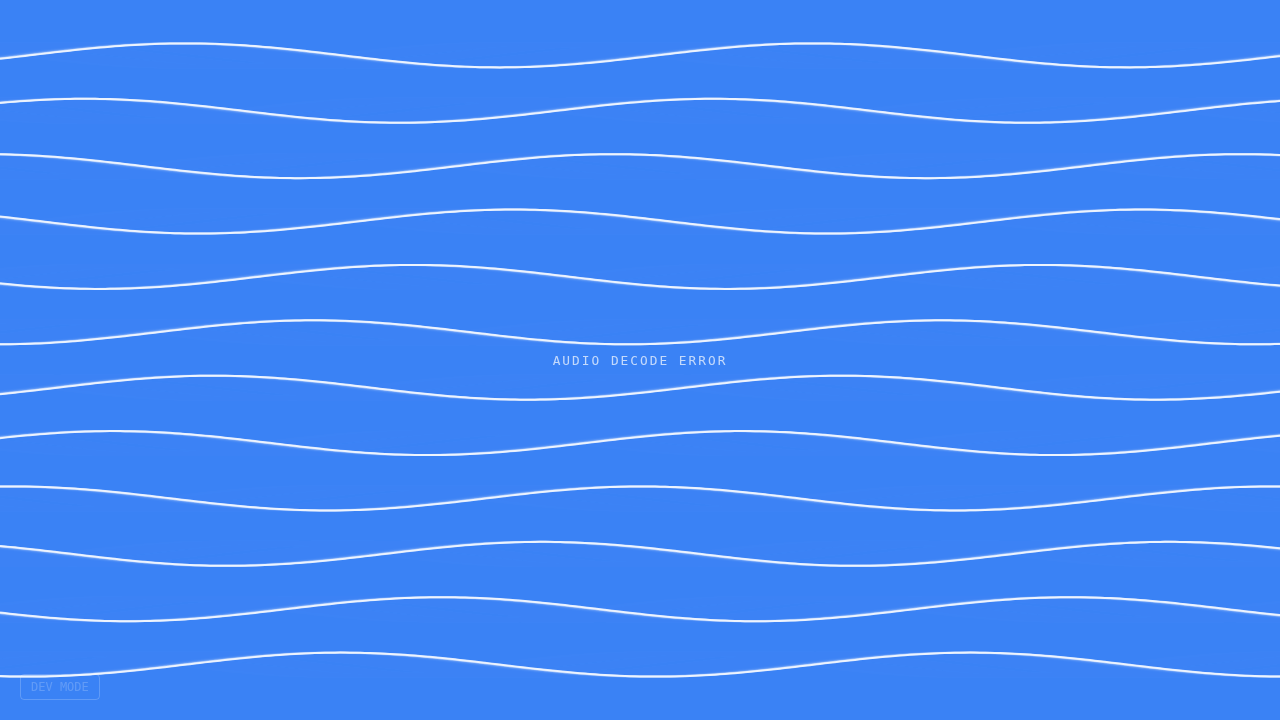
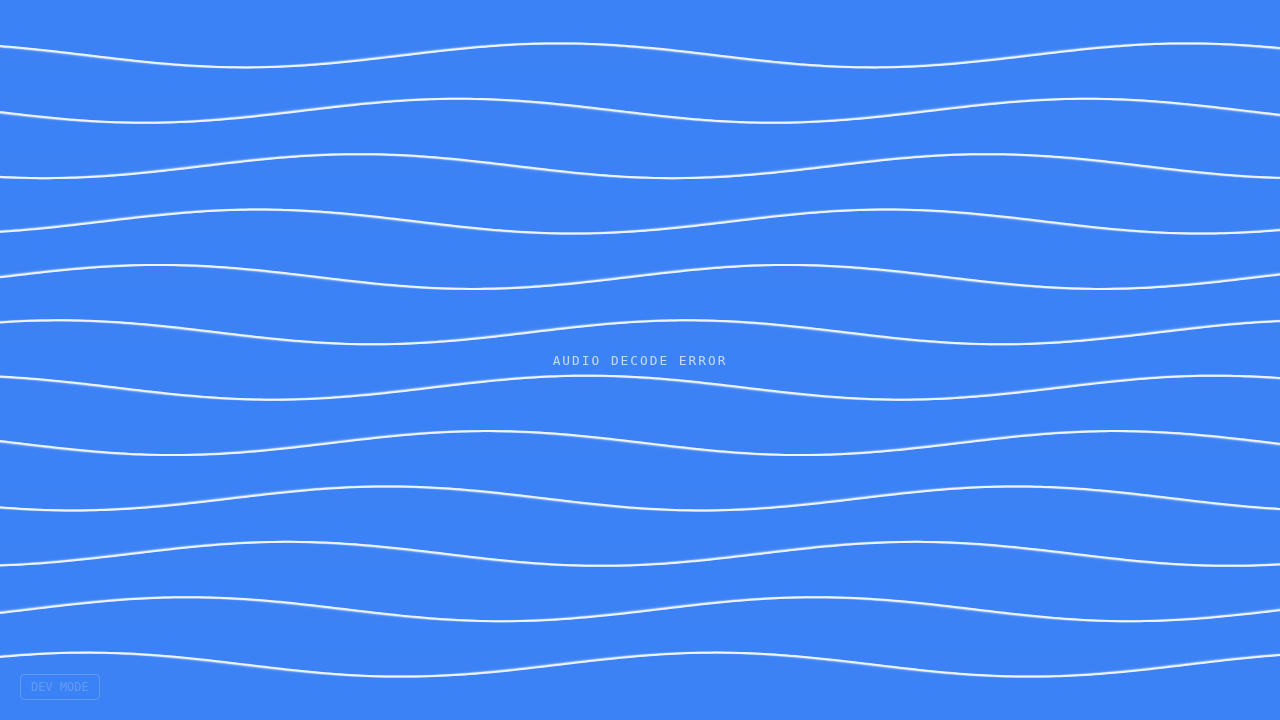
Hide dev mode button after interaction in RNBO test
- Updated `sound-artist/rnboTest.html` to hide the `#dev-bypass` button when the "TAP TO FOCUS" overlay is clicked.
- This cleans up the UI for the user once they have engaged with the audio experience.

diff --git a/test_logging.html b/test_logging.html
@@ -1,0 +1,28 @@
+<!DOCTYPE html>
+<html lang="en">
+<head>
+    <meta charset="UTF-8">
+    <title>RNBO Logging Test</title>
+</head>
+<body>
+    <div id="content"></div>
+    <script>
+        // Simulating the block loader without manually loading RNBO
+        fetch('sound-artist/rnboTest.html')
+            .then(response => response.text())
+            .then(html => {
+                const container = document.getElementById('content');
+                container.innerHTML = html;
+
+                // Execute scripts
+                const scripts = container.querySelectorAll('script');
+                scripts.forEach(oldScript => {
+                    const newScript = document.createElement('script');
+                    Array.from(oldScript.attributes).forEach(attr => newScript.setAttribute(attr.name, attr.value));
+                    newScript.appendChild(document.createTextNode(oldScript.innerHTML));
+                    oldScript.parentNode.replaceChild(newScript, oldScript);
+                });
+            });
+    </script>
+</body>
+</html>

diff --git a/sound-artist/rnboTest.html b/sound-artist/rnboTest.html
@@ -363,7 +363,11 @@
                 });
             }
             isRunning = true;
+
+            // Hide overlay and dev button
             overlay.style.opacity = '0';
+            devBtn.style.display = 'none';
+
             setTimeout(() => overlay.style.visibility = 'hidden', 1000);
             handleInteraction(e.clientX, e.clientY);
         });

diff --git a/verify_logging.py b/verify_logging.py
@@ -1,0 +1,67 @@
+from playwright.sync_api import sync_playwright
+
+def run():
+    with sync_playwright() as p:
+        browser = p.chromium.launch(headless=True)
+        page = browser.new_page()
+
+        console_logs = []
+        page.on("console", lambda msg: console_logs.append(msg.text))
+
+        # Monitor network requests to ensure we are NOT hitting api.github.com
+        def handle_request(request):
+            if "api.github.com" in request.url:
+                print(f"FAILURE: Request to GitHub API detected: {request.url}")
+
+        page.on("request", handle_request)
+
+        print("Navigating to reliability test page...")
+        page.goto("http://localhost:8000/test_logging.html")
+
+        # Wait for initialization
+        try:
+            # We expect AUDIO DECODE ERROR because of EncodingError
+            page.wait_for_selector("text=AUDIO DECODE ERROR", timeout=20000)
+            print("Saw AUDIO DECODE ERROR (expected due to codec).")
+
+            # Print captured logs
+            print("\nCaptured Console Logs:")
+            for log in console_logs:
+                print(f"  {log}")
+
+            # Verify Dev Button Visibility
+            print("\nChecking Dev Button Visibility (Before Click)...")
+            dev_btn = page.query_selector("#dev-bypass")
+            if dev_btn and dev_btn.is_visible():
+                print("SUCCESS: Dev Button is visible initially.")
+            else:
+                print("FAILURE: Dev Button is NOT visible initially.")
+
+            # Perform Interaction (Click Overlay)
+            print("Clicking Overlay (TAP TO FOCUS)...")
+            overlay = page.query_selector("#focus-overlay")
+            overlay.click()
+
+            # Verify Dev Button Hidden
+            print("Checking Dev Button Visibility (After Click)...")
+            # Wait a tiny bit for the style change to propagate if needed (though it's sync)
+            page.wait_for_timeout(100)
+
+            # In Playwright, is_visible() checks style/opacity/size.
+            # We set display: none, so it should return False.
+            if not dev_btn.is_visible():
+                 print("SUCCESS: Dev Button is hidden after interaction.")
+            else:
+                 print("FAILURE: Dev Button is STILL visible after interaction.")
+
+        except Exception as e:
+            print(f"Timed out or error: {e}")
+
+        finally:
+            page.screenshot(path="verification_logging.png")
+            print("Screenshot saved to verification_logging.png")
+
+        browser.close()
+
+if __name__ == "__main__":
+    run()
